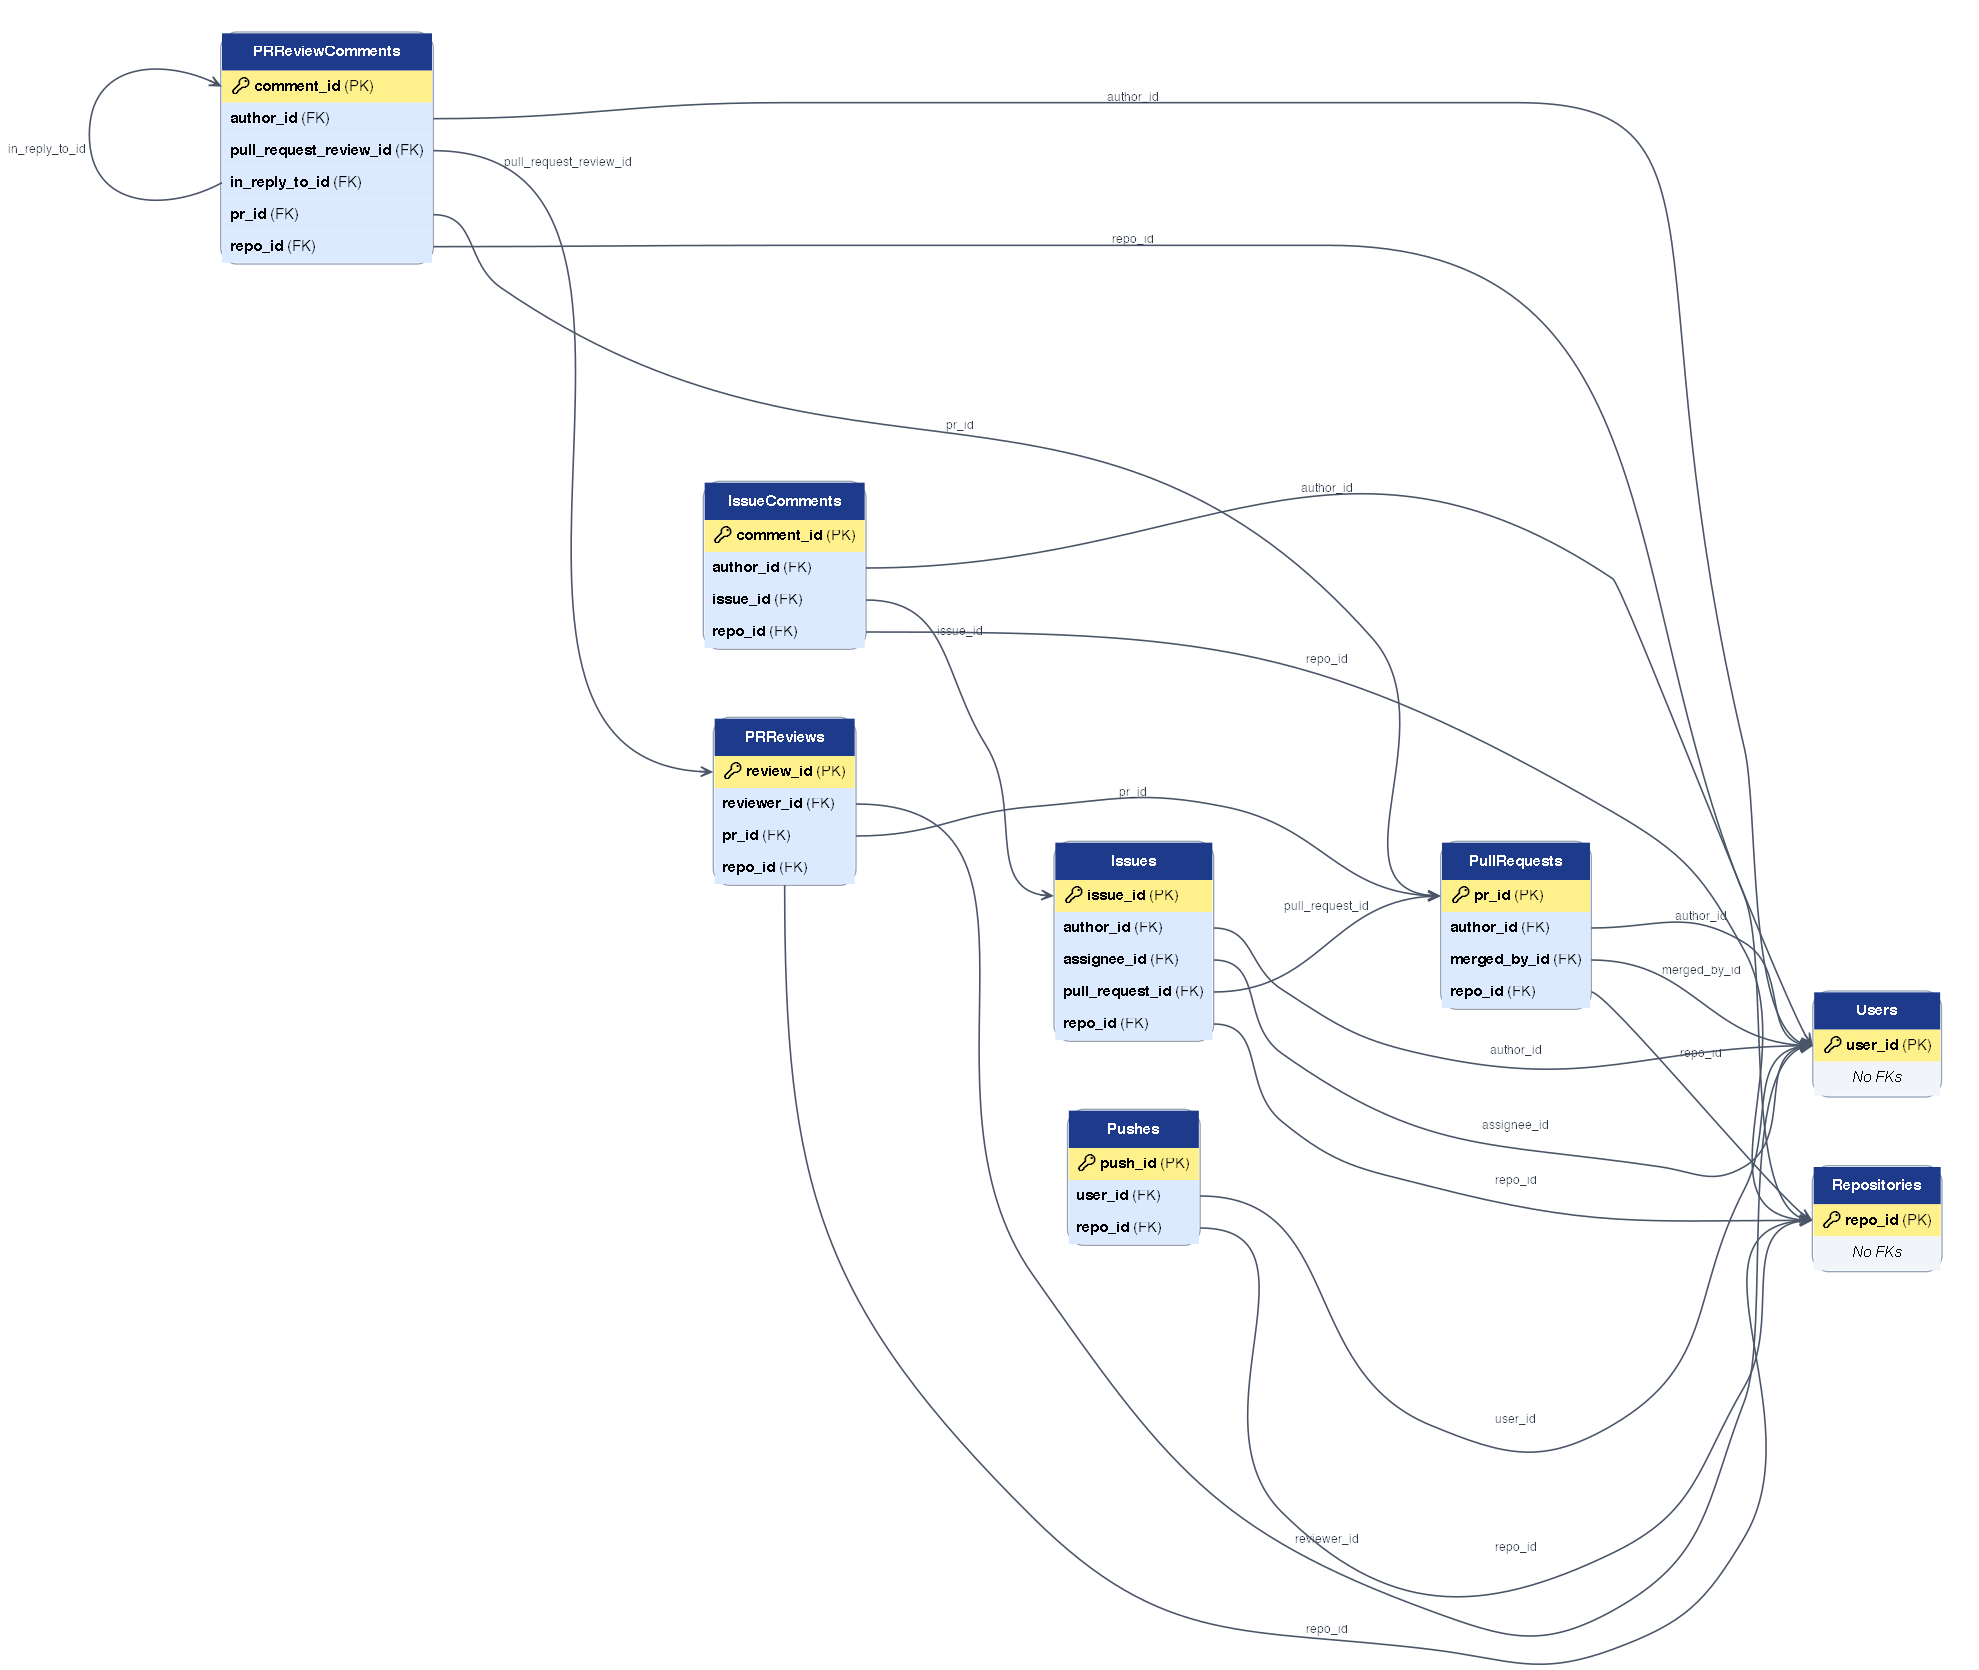
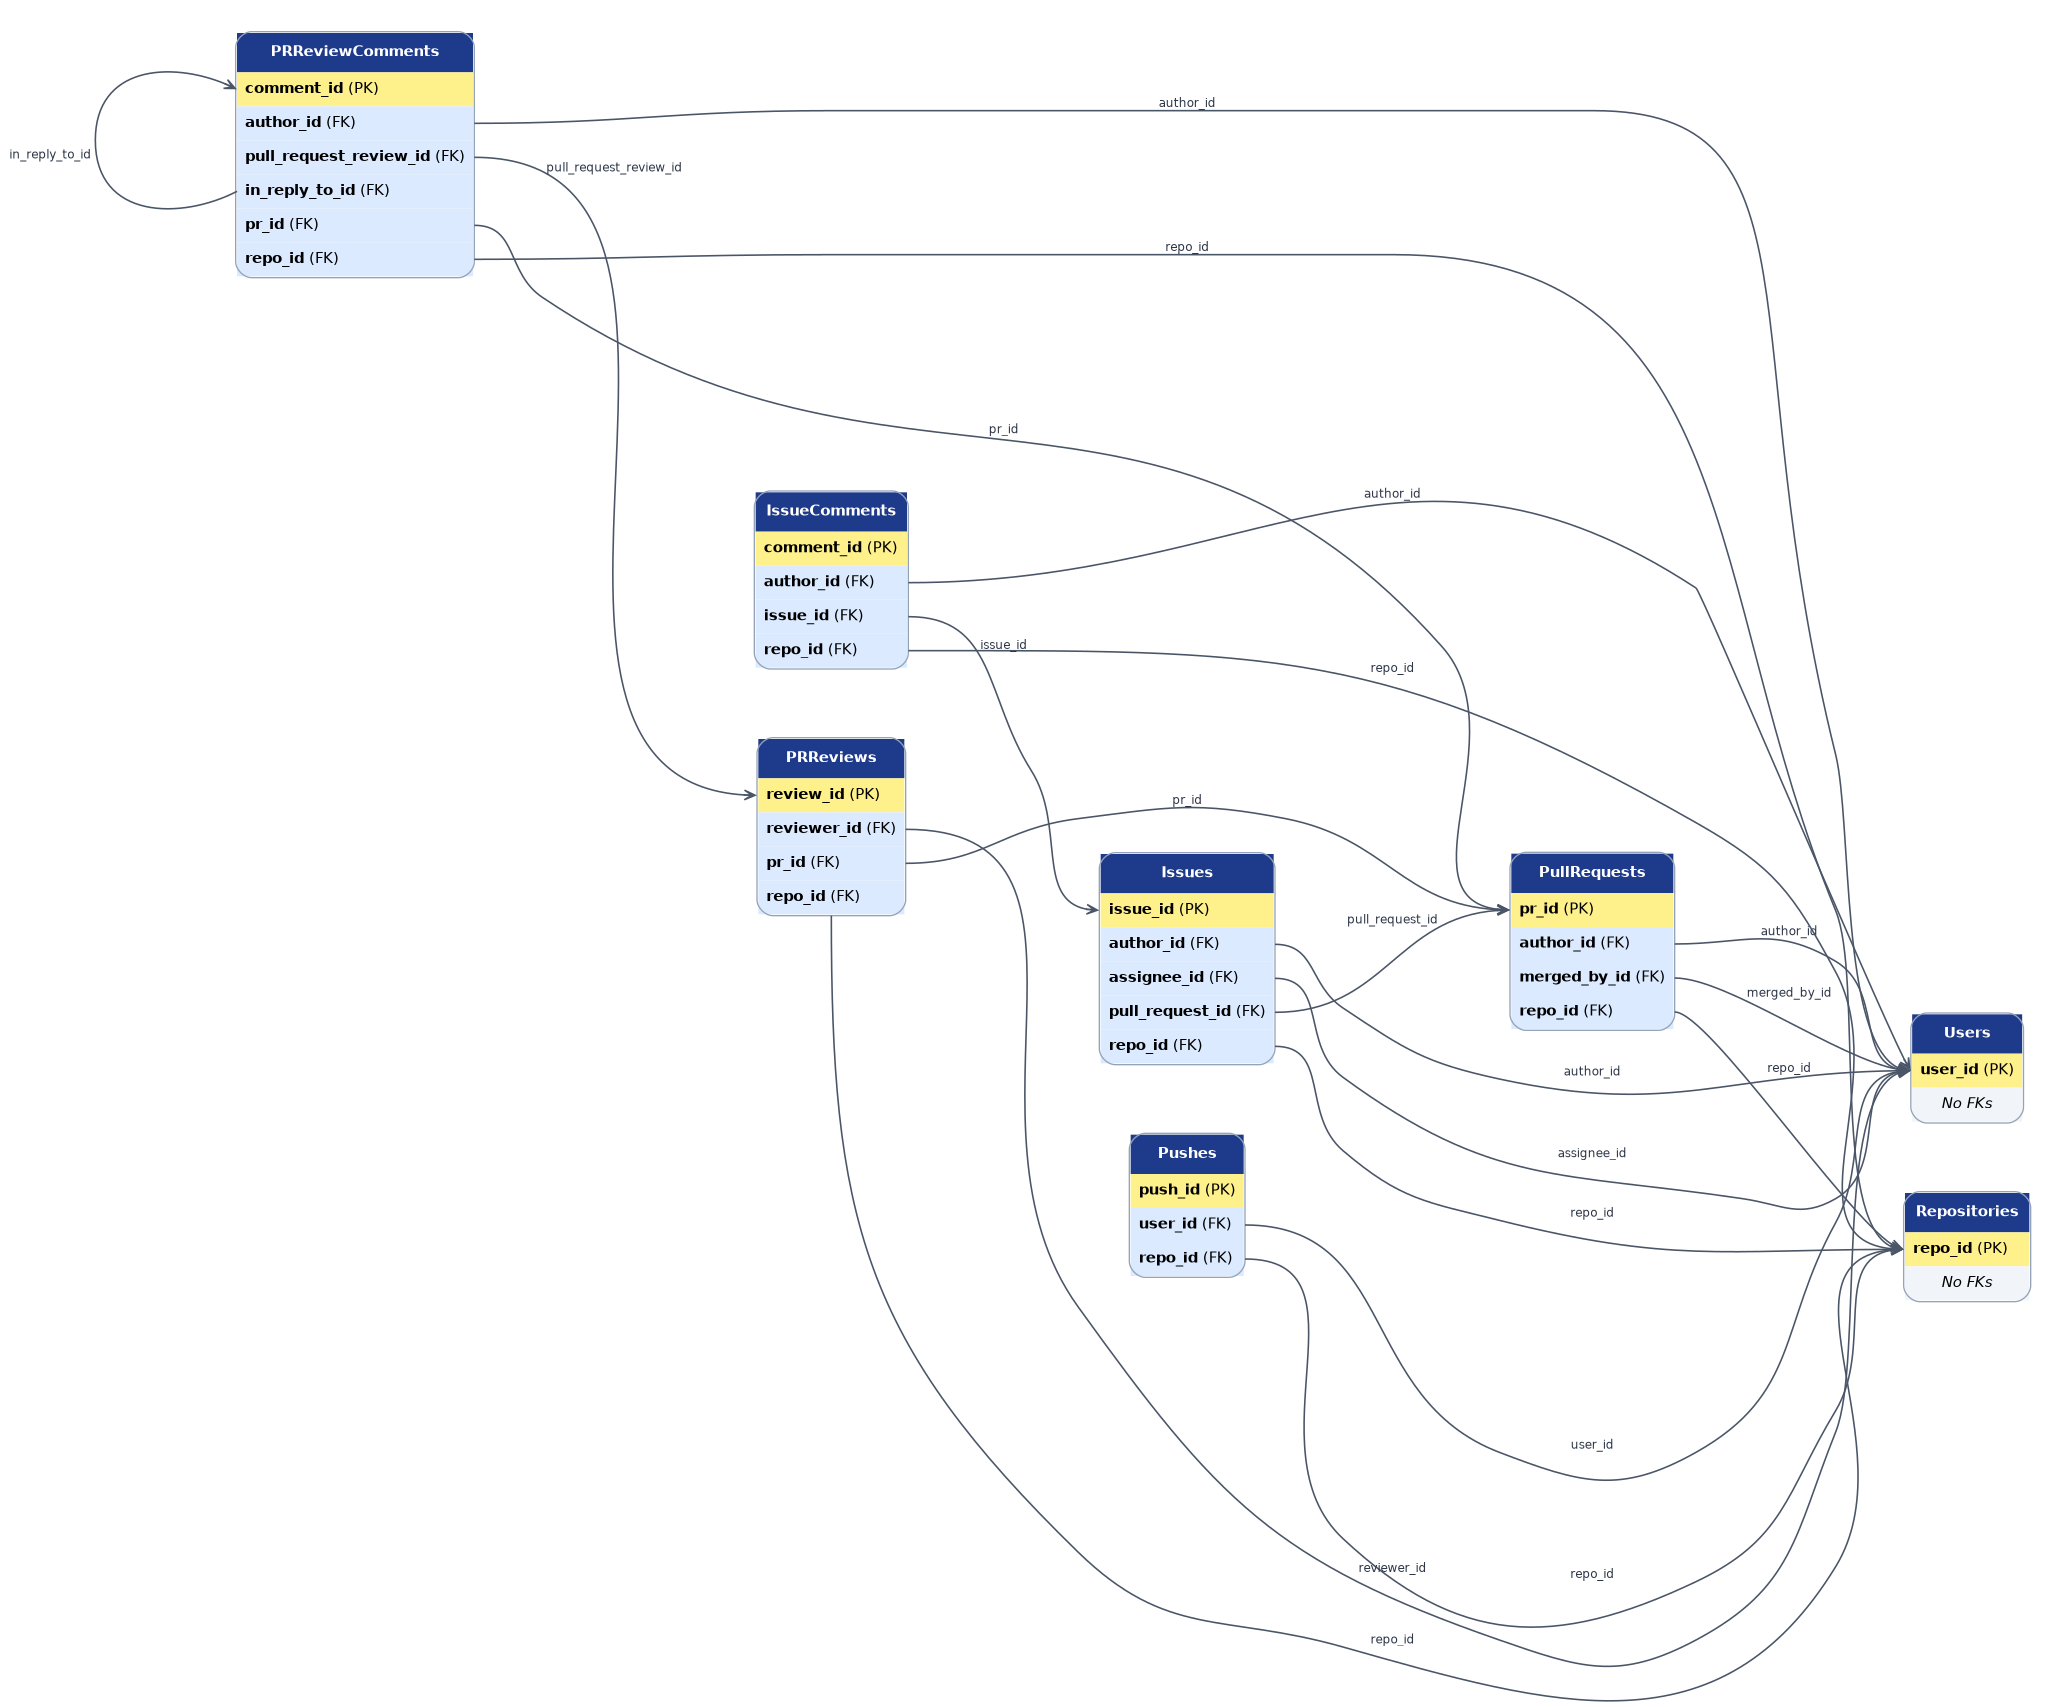
Drop 🔑 from PK row labels; it renders blank on Linux
No installed font covers U+1F511 (fc-list ':charset=1f511' -> 0), so
fontconfig falls back to DejaVu Sans, which lacks the glyph. Graphviz
still reserves the advance width, leaving an invisible gap beside each
primary key. The '(PK)' suffix already conveys the meaning.

Regenerated schema_graph_pipeline.png (2068x1707).

diff --git a/scripts/generate_schema_graph.py b/scripts/generate_schema_graph.py
@@ -90,7 +90,7 @@ def create_node(table_name, data):
     return f'''<
     <table border="1" cellborder="0" cellspacing="0" cellpadding="6" color="{BORDER_COLOR}" style="rounded">
         <tr><td bgcolor="{HEADER_COLOR}" align="center" cellpadding="8"><font color="white"><b>{table_name}</b></font></td></tr>
-        <tr><td bgcolor="{PK_COLOR}" align="left" port="{data["pk"]}" color="{BORDER_COLOR}"><b>🔑 {data["pk"]}</b> (PK)</td></tr>
+        <tr><td bgcolor="{PK_COLOR}" align="left" port="{data["pk"]}" color="{BORDER_COLOR}"><b>{data["pk"]}</b> (PK)</td></tr>
         {fk_rows}
     </table>>'''
 
